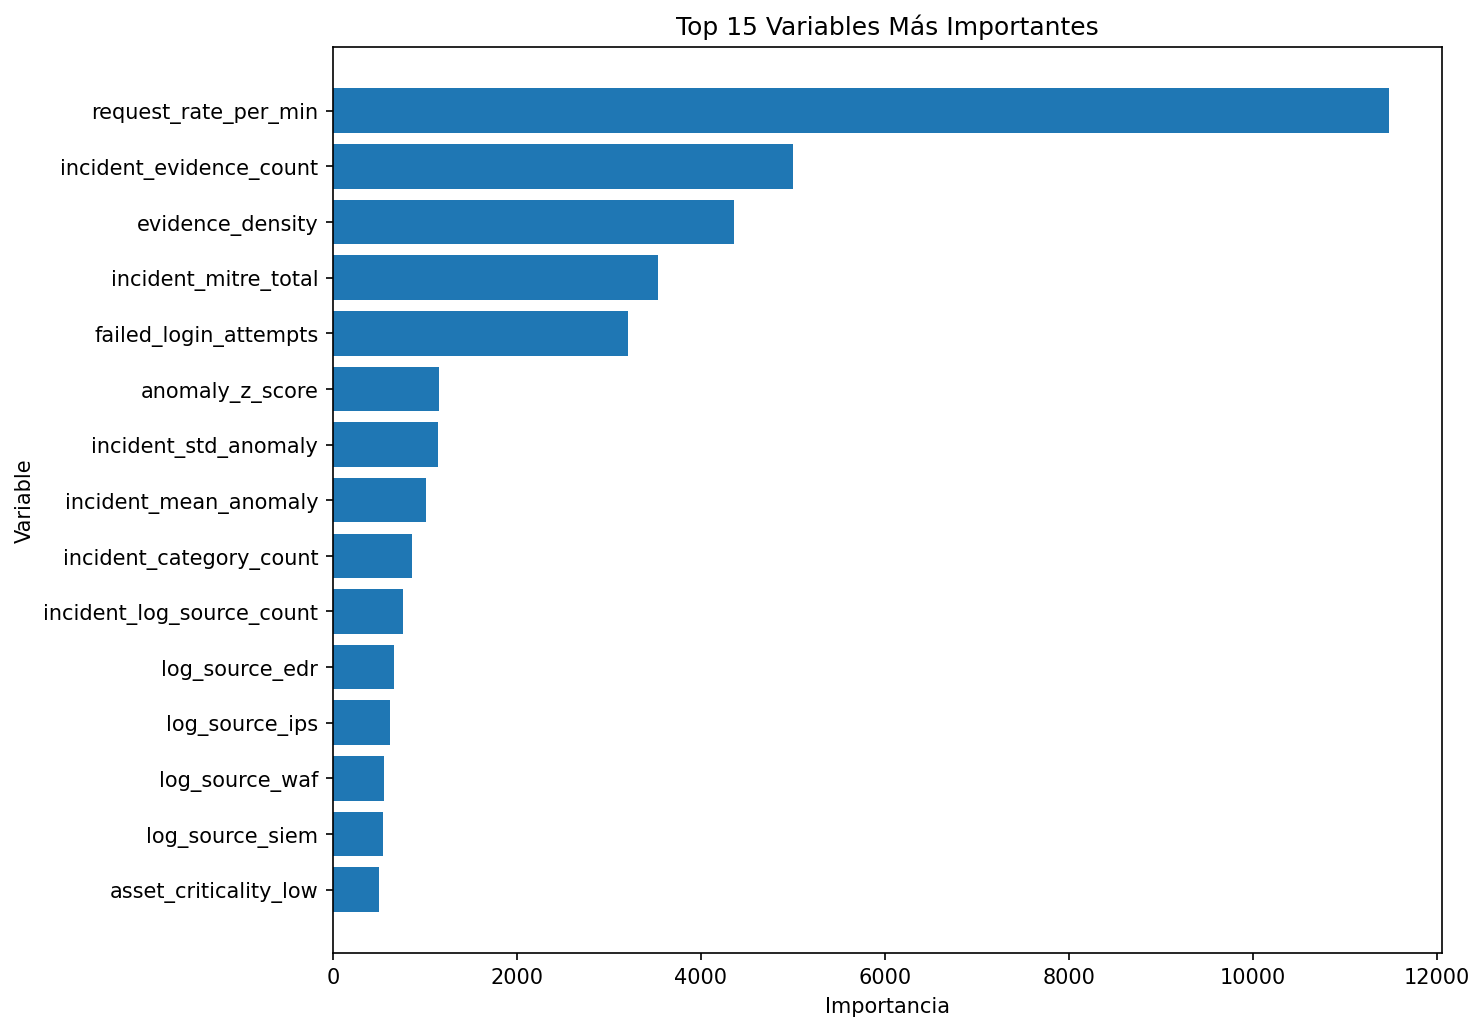
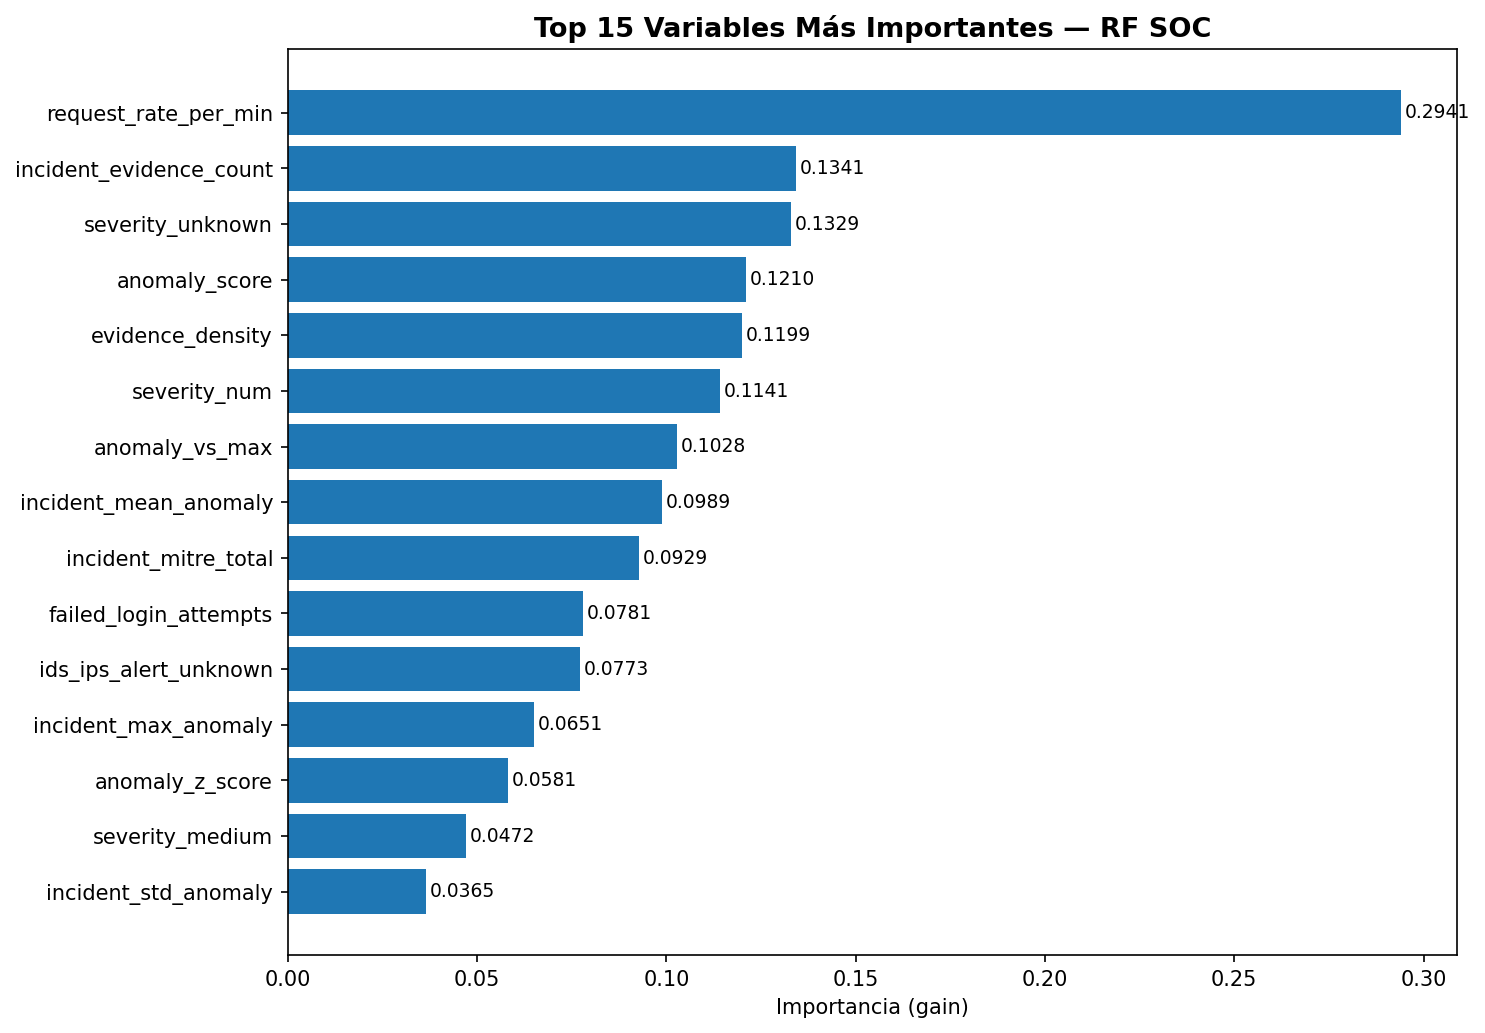
feat: update ML analytics chart visualization

diff --git a/soc_project/train_model.py b/soc_project/train_model.py
@@ -284,9 +284,12 @@ fi_s1 = pd.DataFrame({
     "feature"   : X_encoded.columns,
     "importance": rf_s1.feature_importances_,
 }).sort_values("importance", ascending=False)
+
+_lgbm_imp = lgbm_s2.feature_importances_.astype(float)
+_lgbm_imp = _lgbm_imp / _lgbm_imp.sum()
 fi_s2 = pd.DataFrame({
     "feature"   : s2_cols,
-    "importance": lgbm_s2.feature_importances_,
+    "importance": _lgbm_imp,
 }).sort_values("importance", ascending=False)
 
 fi_combined = (
@@ -297,10 +300,12 @@ fi_combined = (
 )
 top15 = fi_combined.head(15).iloc[::-1]
 fig, ax = plt.subplots(figsize=(10, 7))
-ax.barh(top15["feature"], top15["importance"], color="#1f77b4")
-ax.set_title("Top 15 Variables Más Importantes")
-ax.set_xlabel("Importancia")
-ax.set_ylabel("Variable")
+bars = ax.barh(top15["feature"], top15["importance"], color="#1f77b4")
+for bar, val in zip(bars, top15["importance"]):
+    ax.text(val + 0.001, bar.get_y() + bar.get_height() / 2,
+            f"{val:.4f}", va="center", ha="left", fontsize=9)
+ax.set_title("Top 15 Variables Más Importantes — RF SOC", fontsize=13, fontweight="bold")
+ax.set_xlabel("Importancia (gain)")
 plt.tight_layout()
 plt.savefig(os.path.join(REPORTS_DIR, "feature_importance.png"), dpi=150, bbox_inches='tight')
 plt.close()
